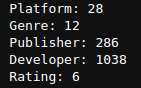
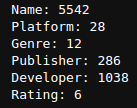
[Update] readme

diff --git a/README.md b/README.md
@@ -67,10 +67,33 @@
 - nb005
     - string特徴量を見てみた
     - 特徴量名: `feat_string = ['Platform', 'Genre', 'Publisher', 'Developer', 'Rating']`
+    - 以下testで見てる
     - nunique
-
-    <img src='./../data/info/readme/001.png' width='400'>
+        - 全体の数が8000程度なのでName以外そのまま使って良さそう
+    
+        <img src='./data/info/readme/001.png' width='150'>
 
     - value_counts
+        - この程度なら、そのままカテゴリカルにしてしまおう
 
-    <img src='./../data/info/readme/002.png' width='400'>
+        <img src='./data/info/readme/002.png' width='250'>
+
+
+- nb006
+    - nb005のカテゴリカルな特徴量入れた
+    - result
+        - cv: 1.19139
+        - sub: 1.4141
+
+- nb007
+    - nb006の改良
+    - train_test_splitからkfoldにする
+    - result
+        - cv: 1.14436
+        - sub: 1.3746
+
+- nb008
+    - nb007をリファクタリング
+
+- nb009
+    - nb008のlightGBMのハイパラチューニング
